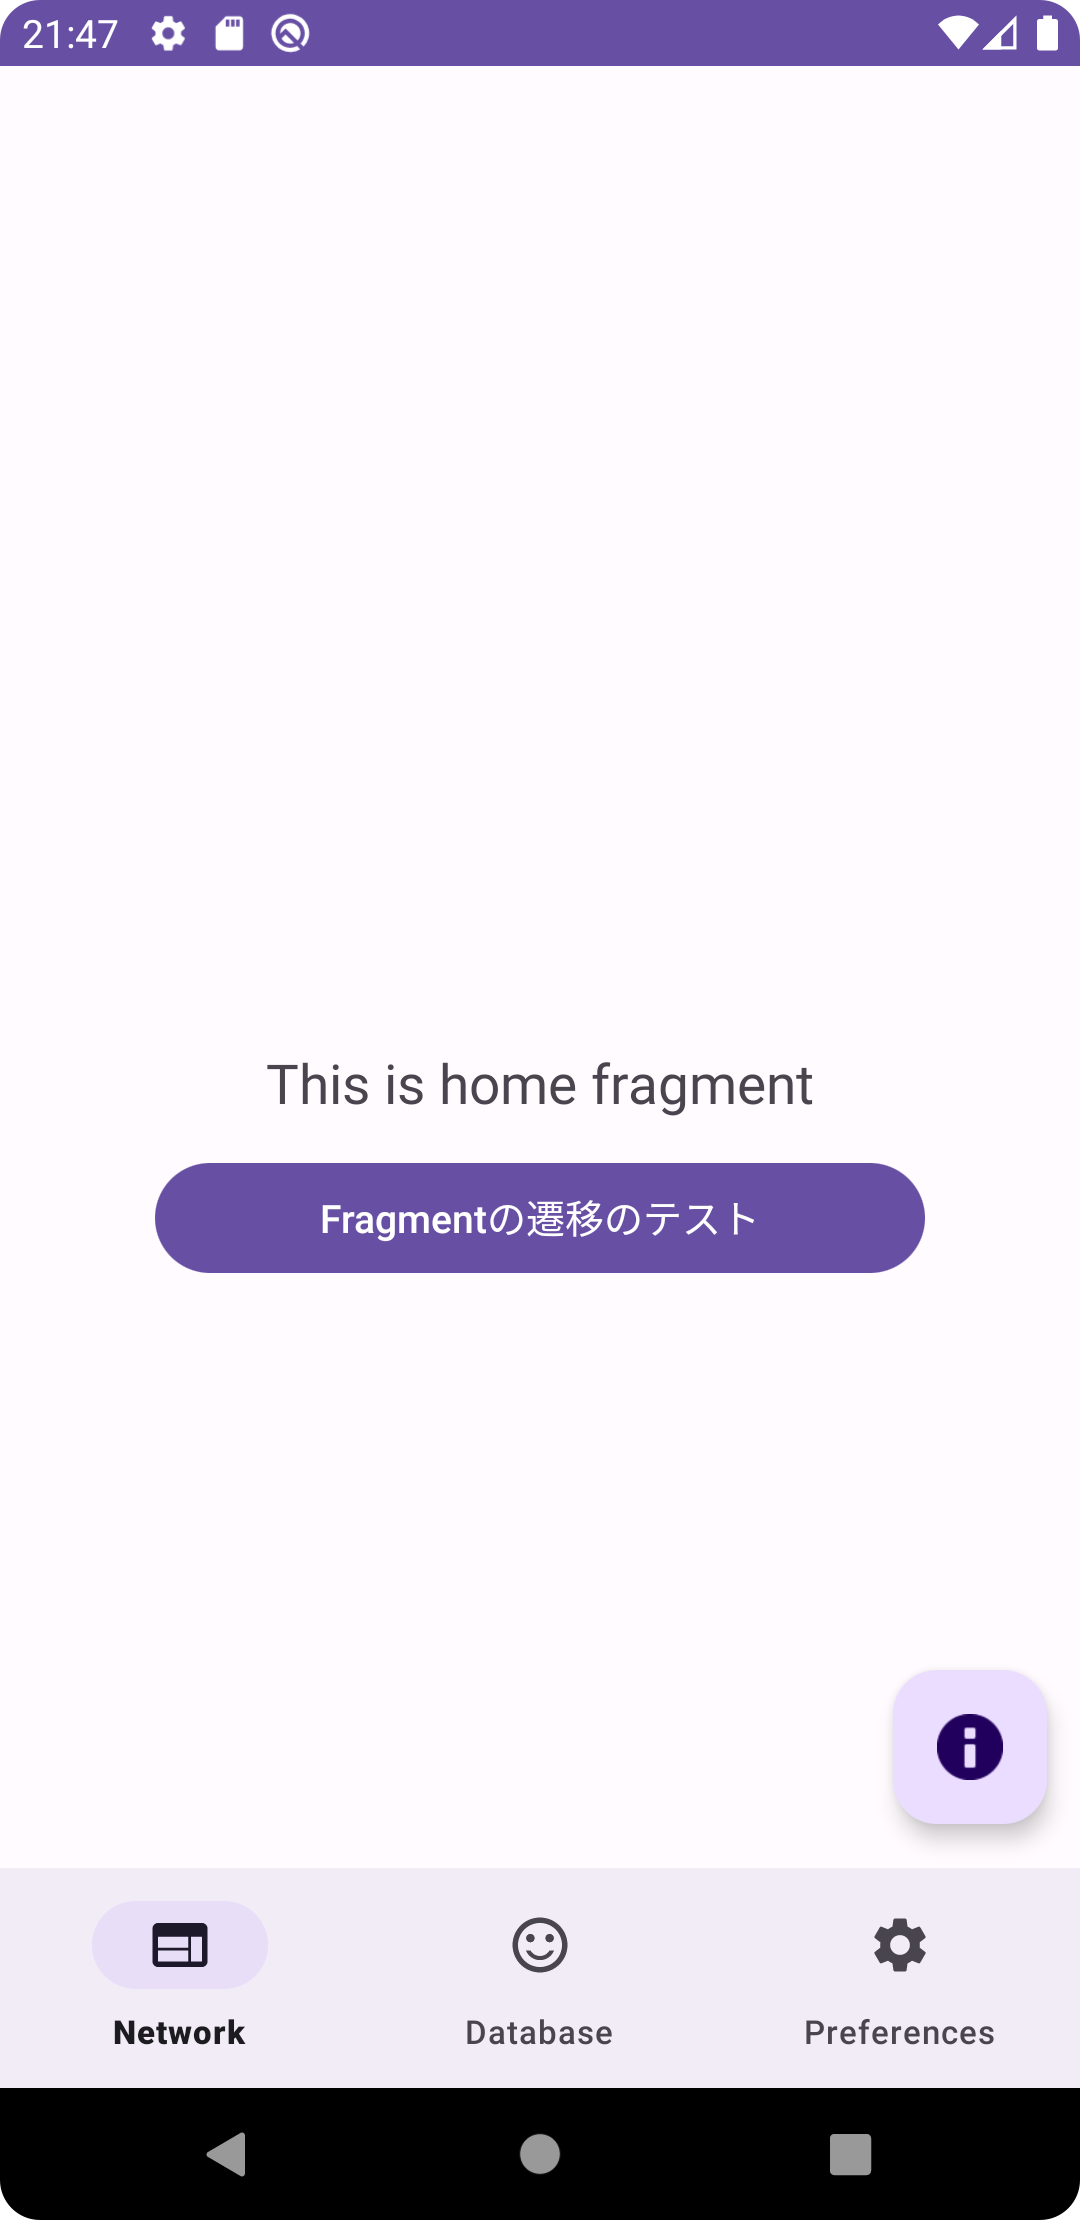
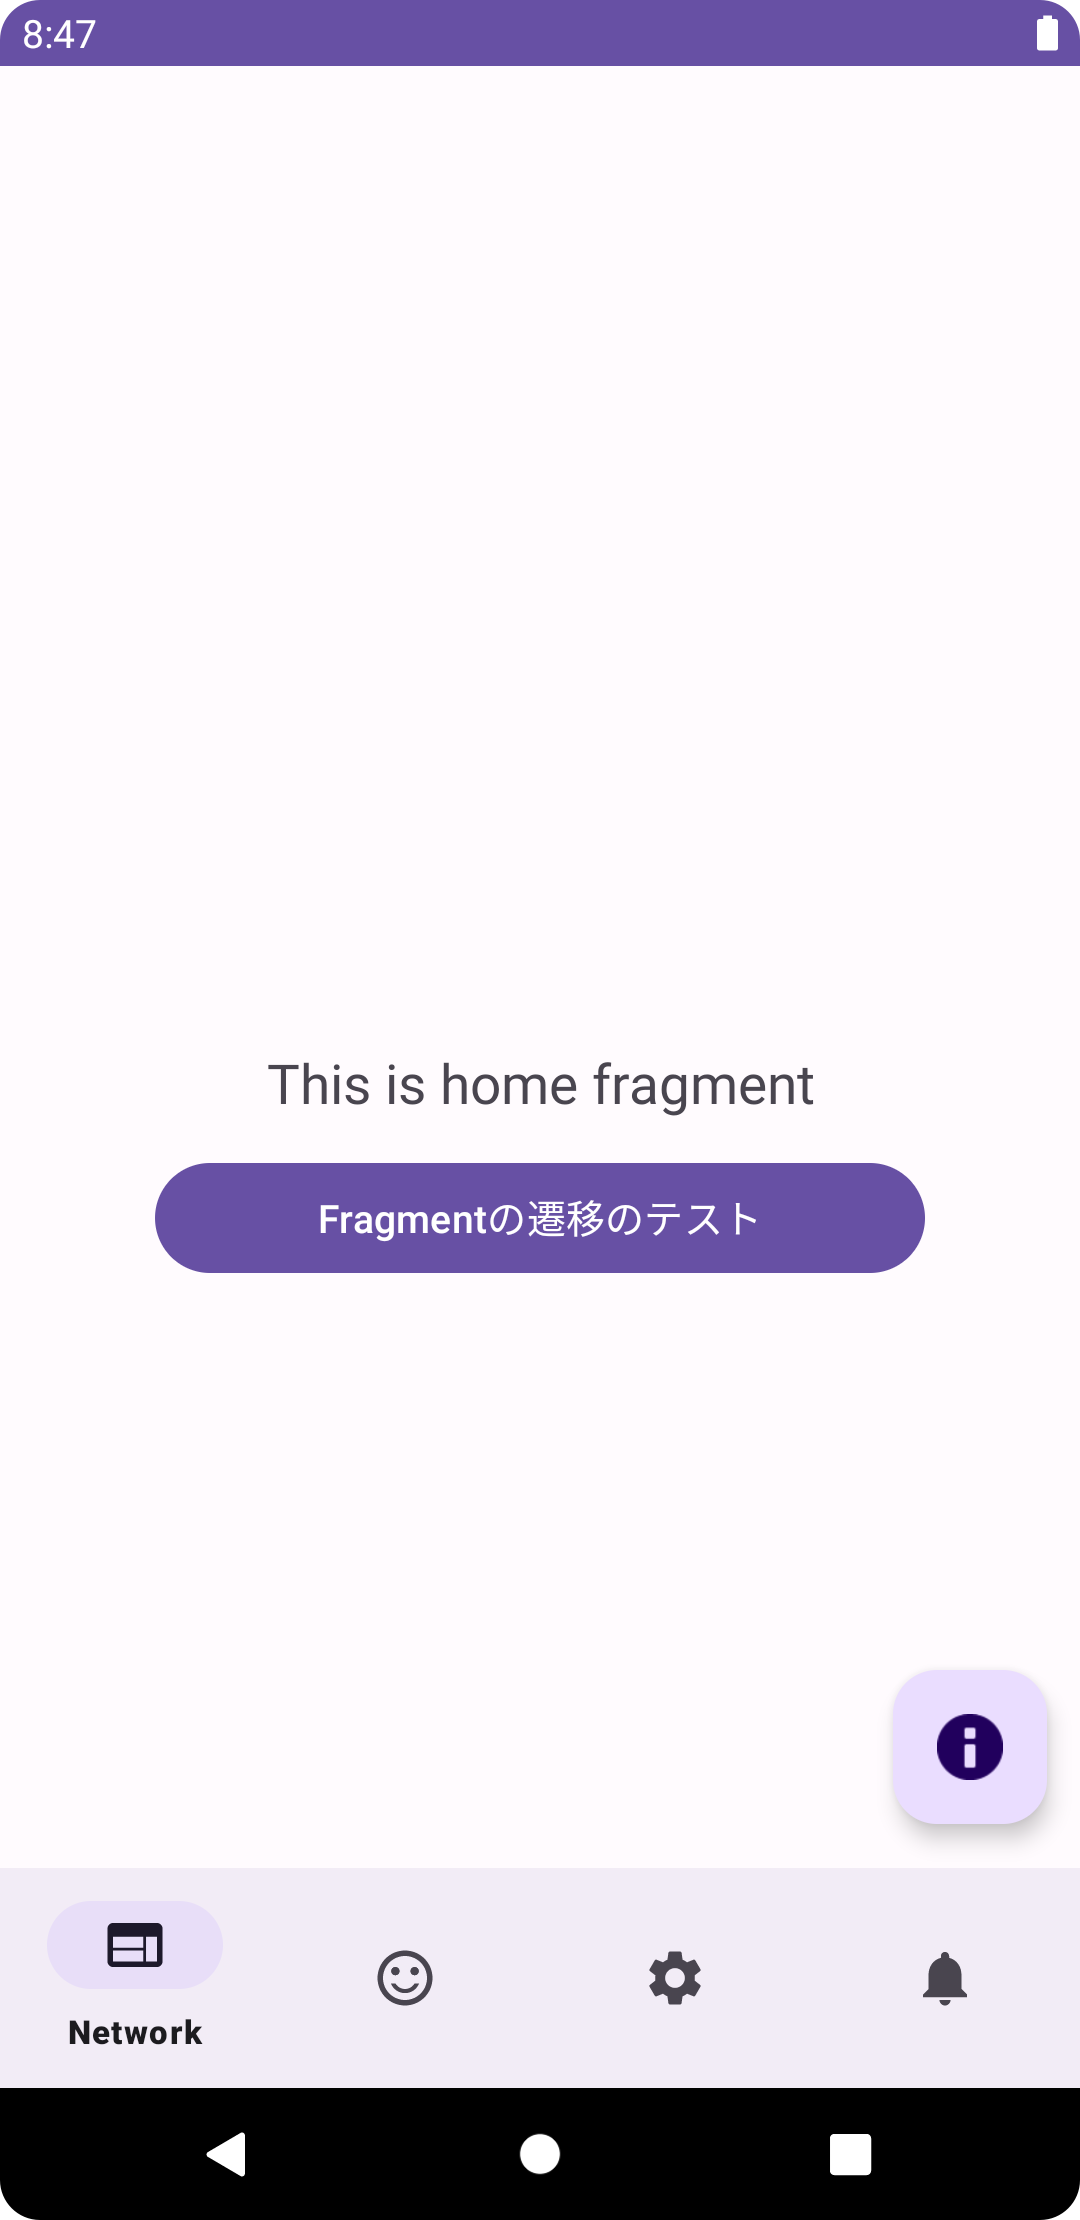
メニューアイテムを１つ追加する

diff --git a/app/src/main/java/com/template/androidbasicapp/ui/fragment/NotificationDemoFragment.java b/app/src/main/java/com/template/androidbasicapp/ui/fragment/NotificationDemoFragment.java
@@ -1,0 +1,35 @@
+package com.template.androidbasicapp.ui.fragment;
+
+import android.os.Bundle;
+
+import androidx.annotation.NonNull;
+import androidx.annotation.Nullable;
+import androidx.fragment.app.Fragment;
+
+import android.view.LayoutInflater;
+import android.view.View;
+import android.view.ViewGroup;
+
+import com.template.androidbasicapp.R;
+import com.template.androidbasicapp.databinding.FragmentNotificationDemoBinding;
+
+public class NotificationDemoFragment extends Fragment {
+    private FragmentNotificationDemoBinding binding;
+
+    public NotificationDemoFragment() {
+        super(R.layout.fragment_notification_demo);
+    }
+
+    @Override
+    public void onViewCreated(@NonNull View view, @Nullable Bundle savedInstanceState) {
+        super.onViewCreated(view, savedInstanceState);
+        binding = FragmentNotificationDemoBinding.bind(view);
+        binding.message.setText("Hello, NotificationDemoFragment");
+    }
+
+    @Override
+    public void onDestroyView() {
+        super.onDestroyView();
+        binding = null;
+    }
+}

diff --git a/app/src/simple/java/com/template/androidbasicapp/NotificationDemoActivity.java b/app/src/simple/java/com/template/androidbasicapp/NotificationDemoActivity.java
@@ -1,0 +1,21 @@
+package com.template.androidbasicapp;
+
+import androidx.appcompat.app.AppCompatActivity;
+
+import android.content.Context;
+import android.content.Intent;
+import android.os.Bundle;
+
+public class NotificationDemoActivity extends AppCompatActivity {
+
+    @Override
+    protected void onCreate(Bundle savedInstanceState) {
+        super.onCreate(savedInstanceState);
+        setContentView(R.layout.activity_notification_demo);
+    }
+
+    public static void start(Context context) {
+        Intent starter = new Intent(context, NotificationDemoActivity.class);
+        context.startActivity(starter);
+    }
+}

diff --git a/app/src/simple/java/com/template/androidbasicapp/MainActivity.java b/app/src/simple/java/com/template/androidbasicapp/MainActivity.java
@@ -25,9 +25,12 @@ public class MainActivity extends AppCompatActivity {
         binding.btnPreferencesDemo.setOnClickListener(v -> {
             PreferencesDemoActivity.start(this);
         });
+        binding.btnNotificationDemo.setOnClickListener(v -> {
+            NotificationDemoActivity.start(this);
+        });
 
         binding.fab.setOnClickListener(view -> {
-            Snackbar.make(getWindow().getDecorView(), "Fabボタンが押されました", Snackbar.LENGTH_SHORT).show();
+            Snackbar.make(view, "Fabボタンが押されました", Snackbar.LENGTH_SHORT).show();
         });
     }
 }
